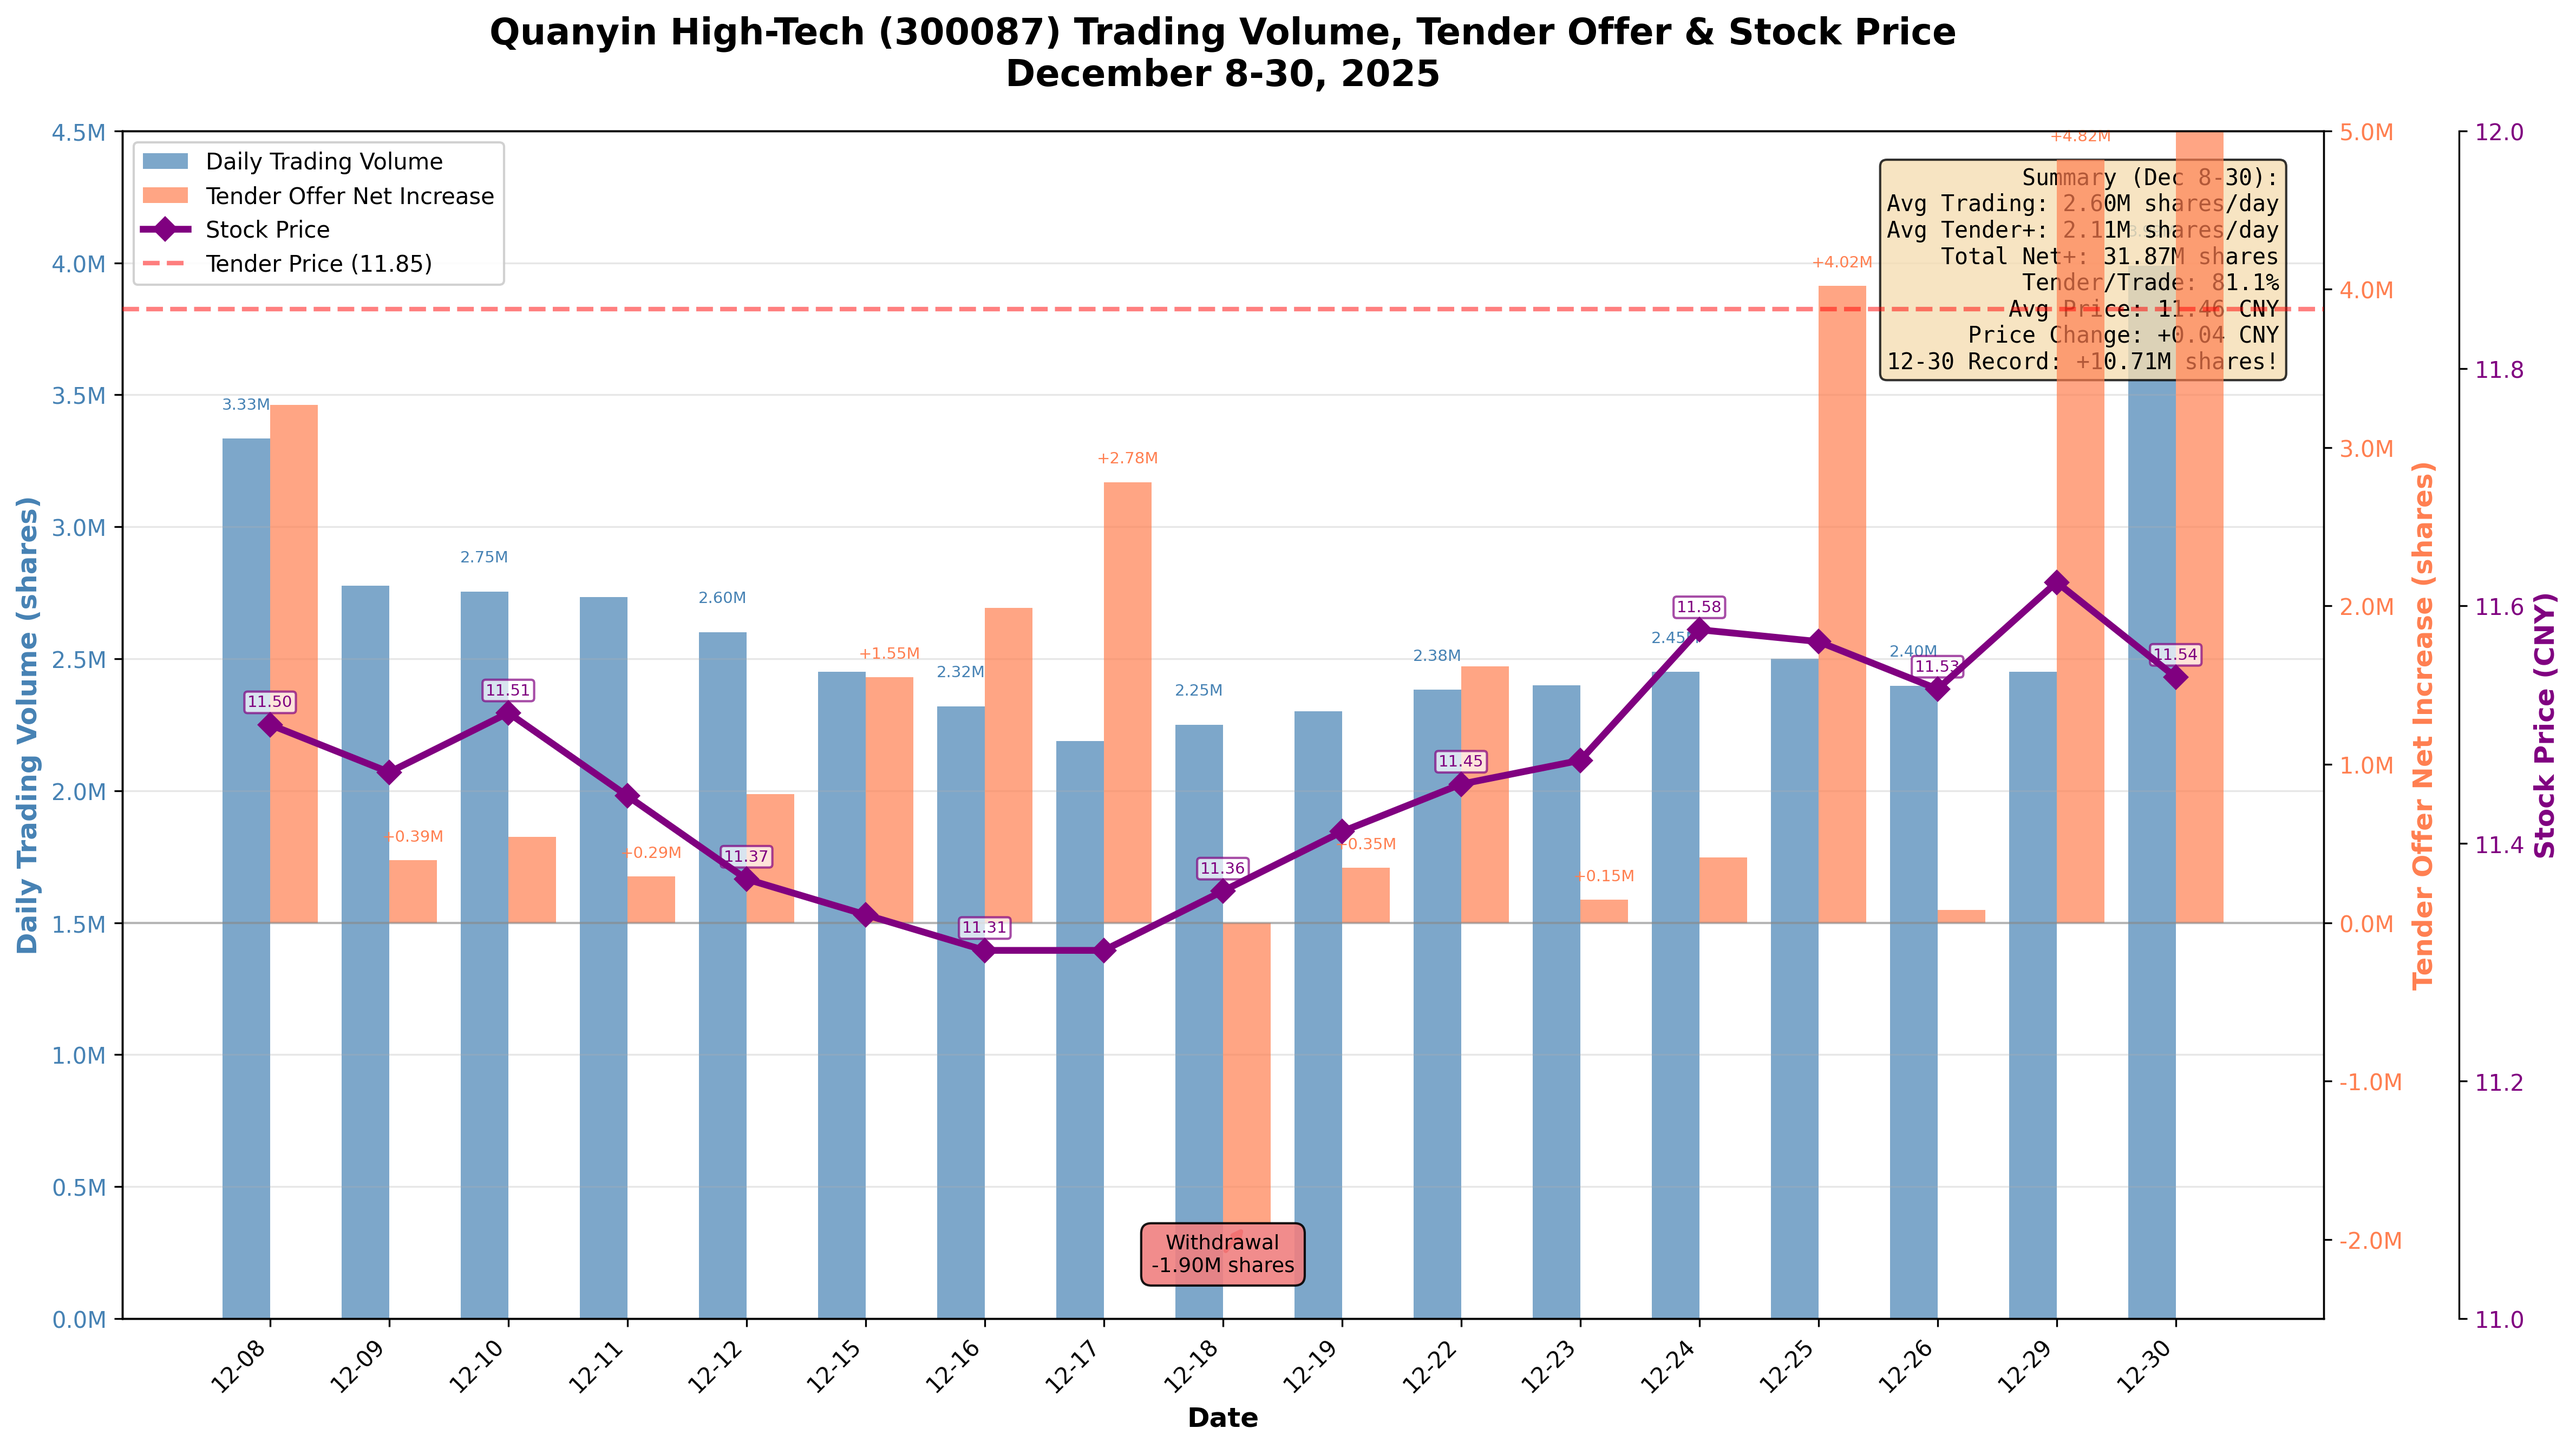
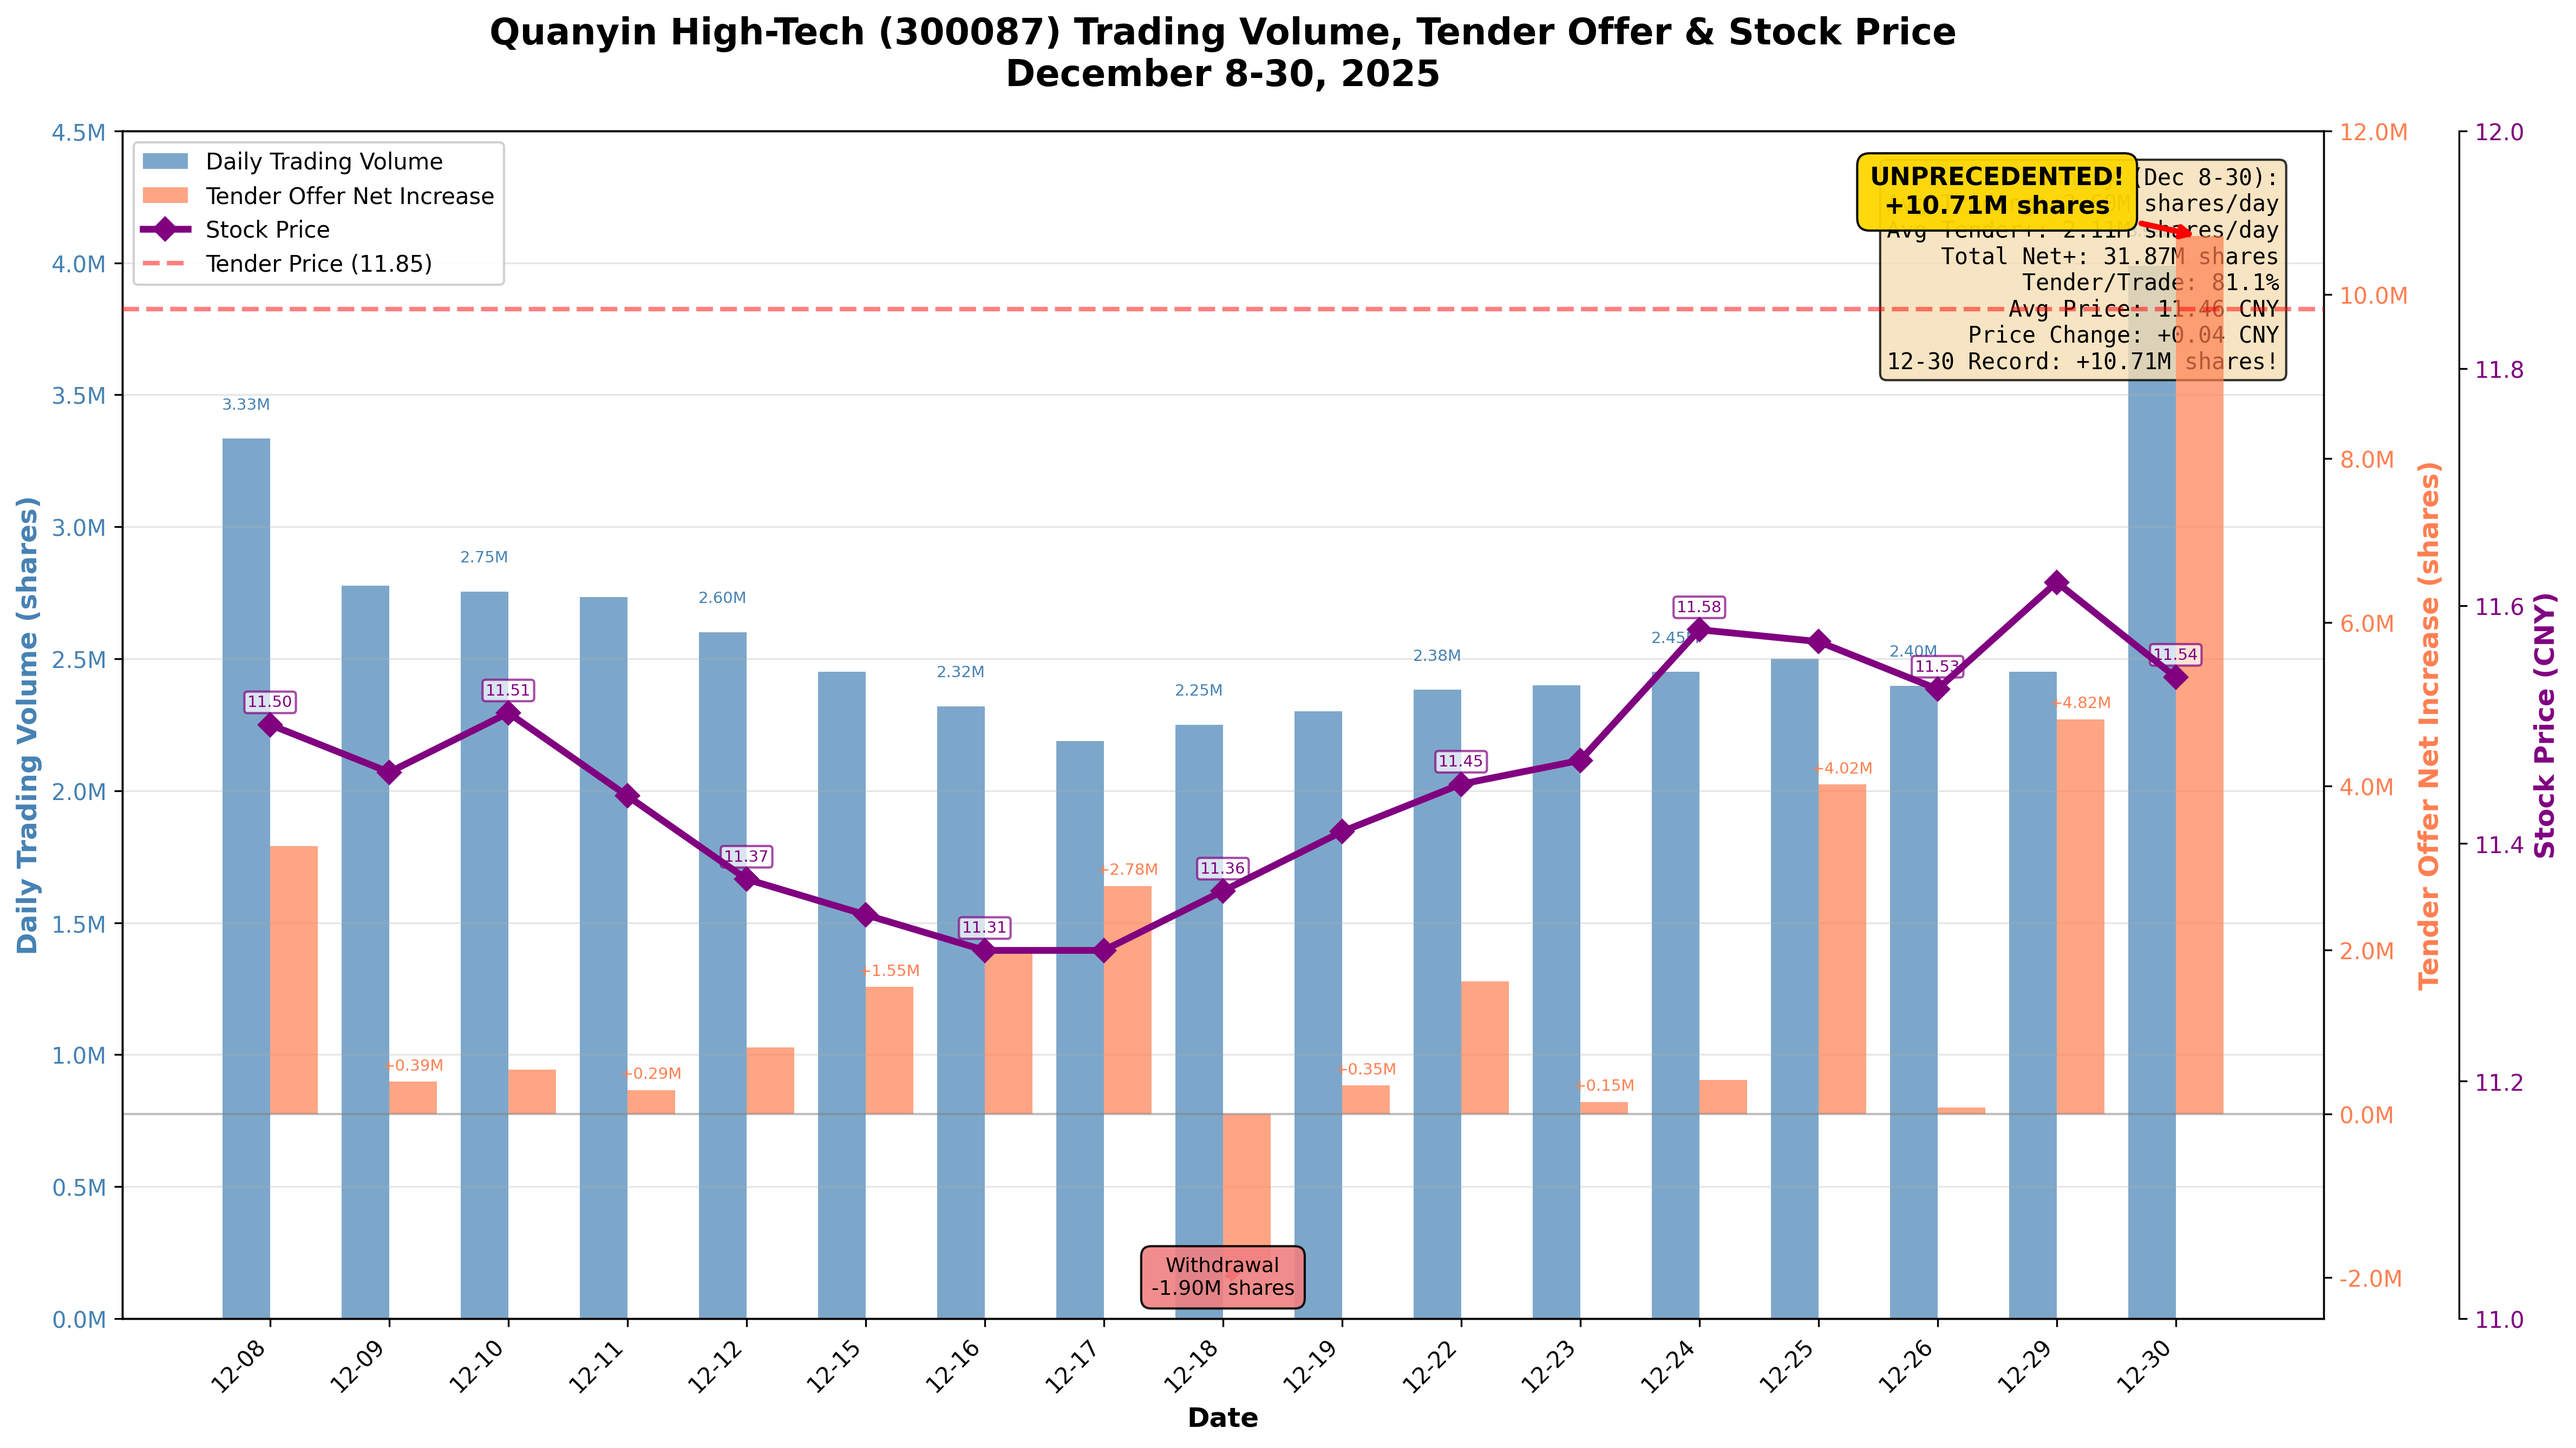
调整交易量对比图右轴范围以完全显示12-30数据
- 将右轴上限从500万提升至1200万
- 调整UNPRECEDENTED标注位置
- 确保10.71M的记录增长完全可见

diff --git a/05_quanyin_tender_offer/generate_volume_comparison_chart.py b/05_quanyin_tender_offer/generate_volume_comparison_chart.py
@@ -142,7 +142,7 @@ ax2.yaxis.set_major_formatter(plt.FuncFormatter(millions_formatter))
 
 # Set y-axis limits
 ax1.set_ylim([0, 4500000])
-ax2.set_ylim([-2500000, 5000000])
+ax2.set_ylim([-2500000, 12000000])  # Increased to accommodate 12-30's record 10.71M
 ax3.set_ylim([11.0, 12.0])
 
 # Add zero line for right axis
@@ -188,7 +188,7 @@ for i, (v1, v2, price) in enumerate(zip(daily_trading_volume, daily_tender_net_i
 record_idx = 16
 ax2.annotate('UNPRECEDENTED!\n+10.71M shares',
              xy=(record_idx + bar_width/2, daily_tender_net_increase[record_idx]),
-             xytext=(record_idx-1, 9500000),
+             xytext=(record_idx-1.5, 11000000),
              bbox=dict(boxstyle='round,pad=0.5', facecolor='gold', alpha=0.95),
              arrowprops=dict(arrowstyle='->', color='red', lw=2.5),
              fontsize=11, fontweight='bold', ha='center')
